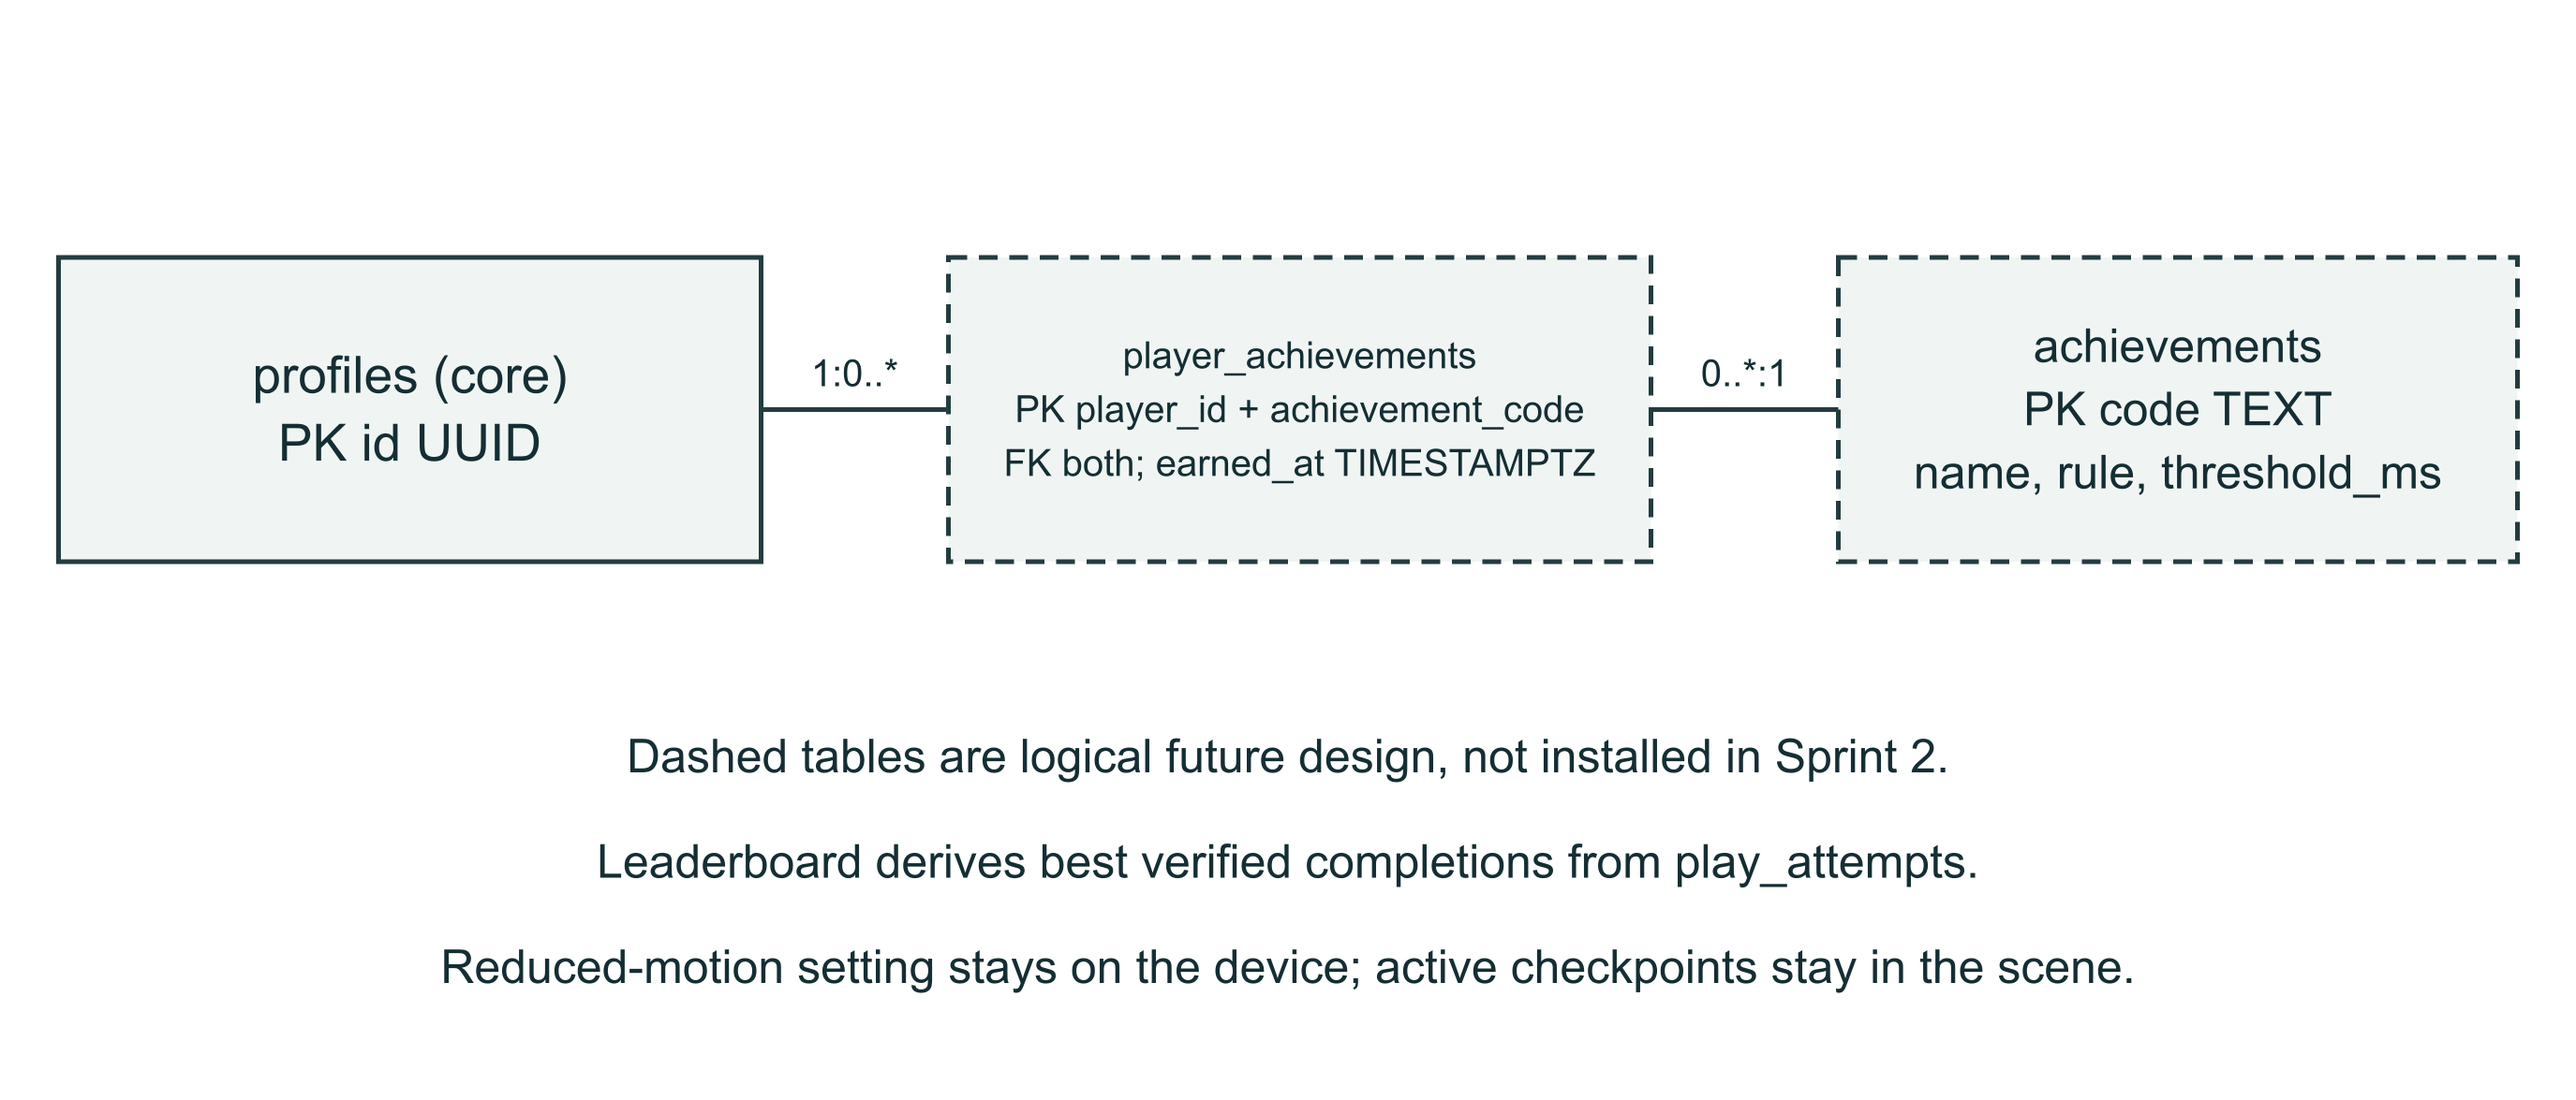
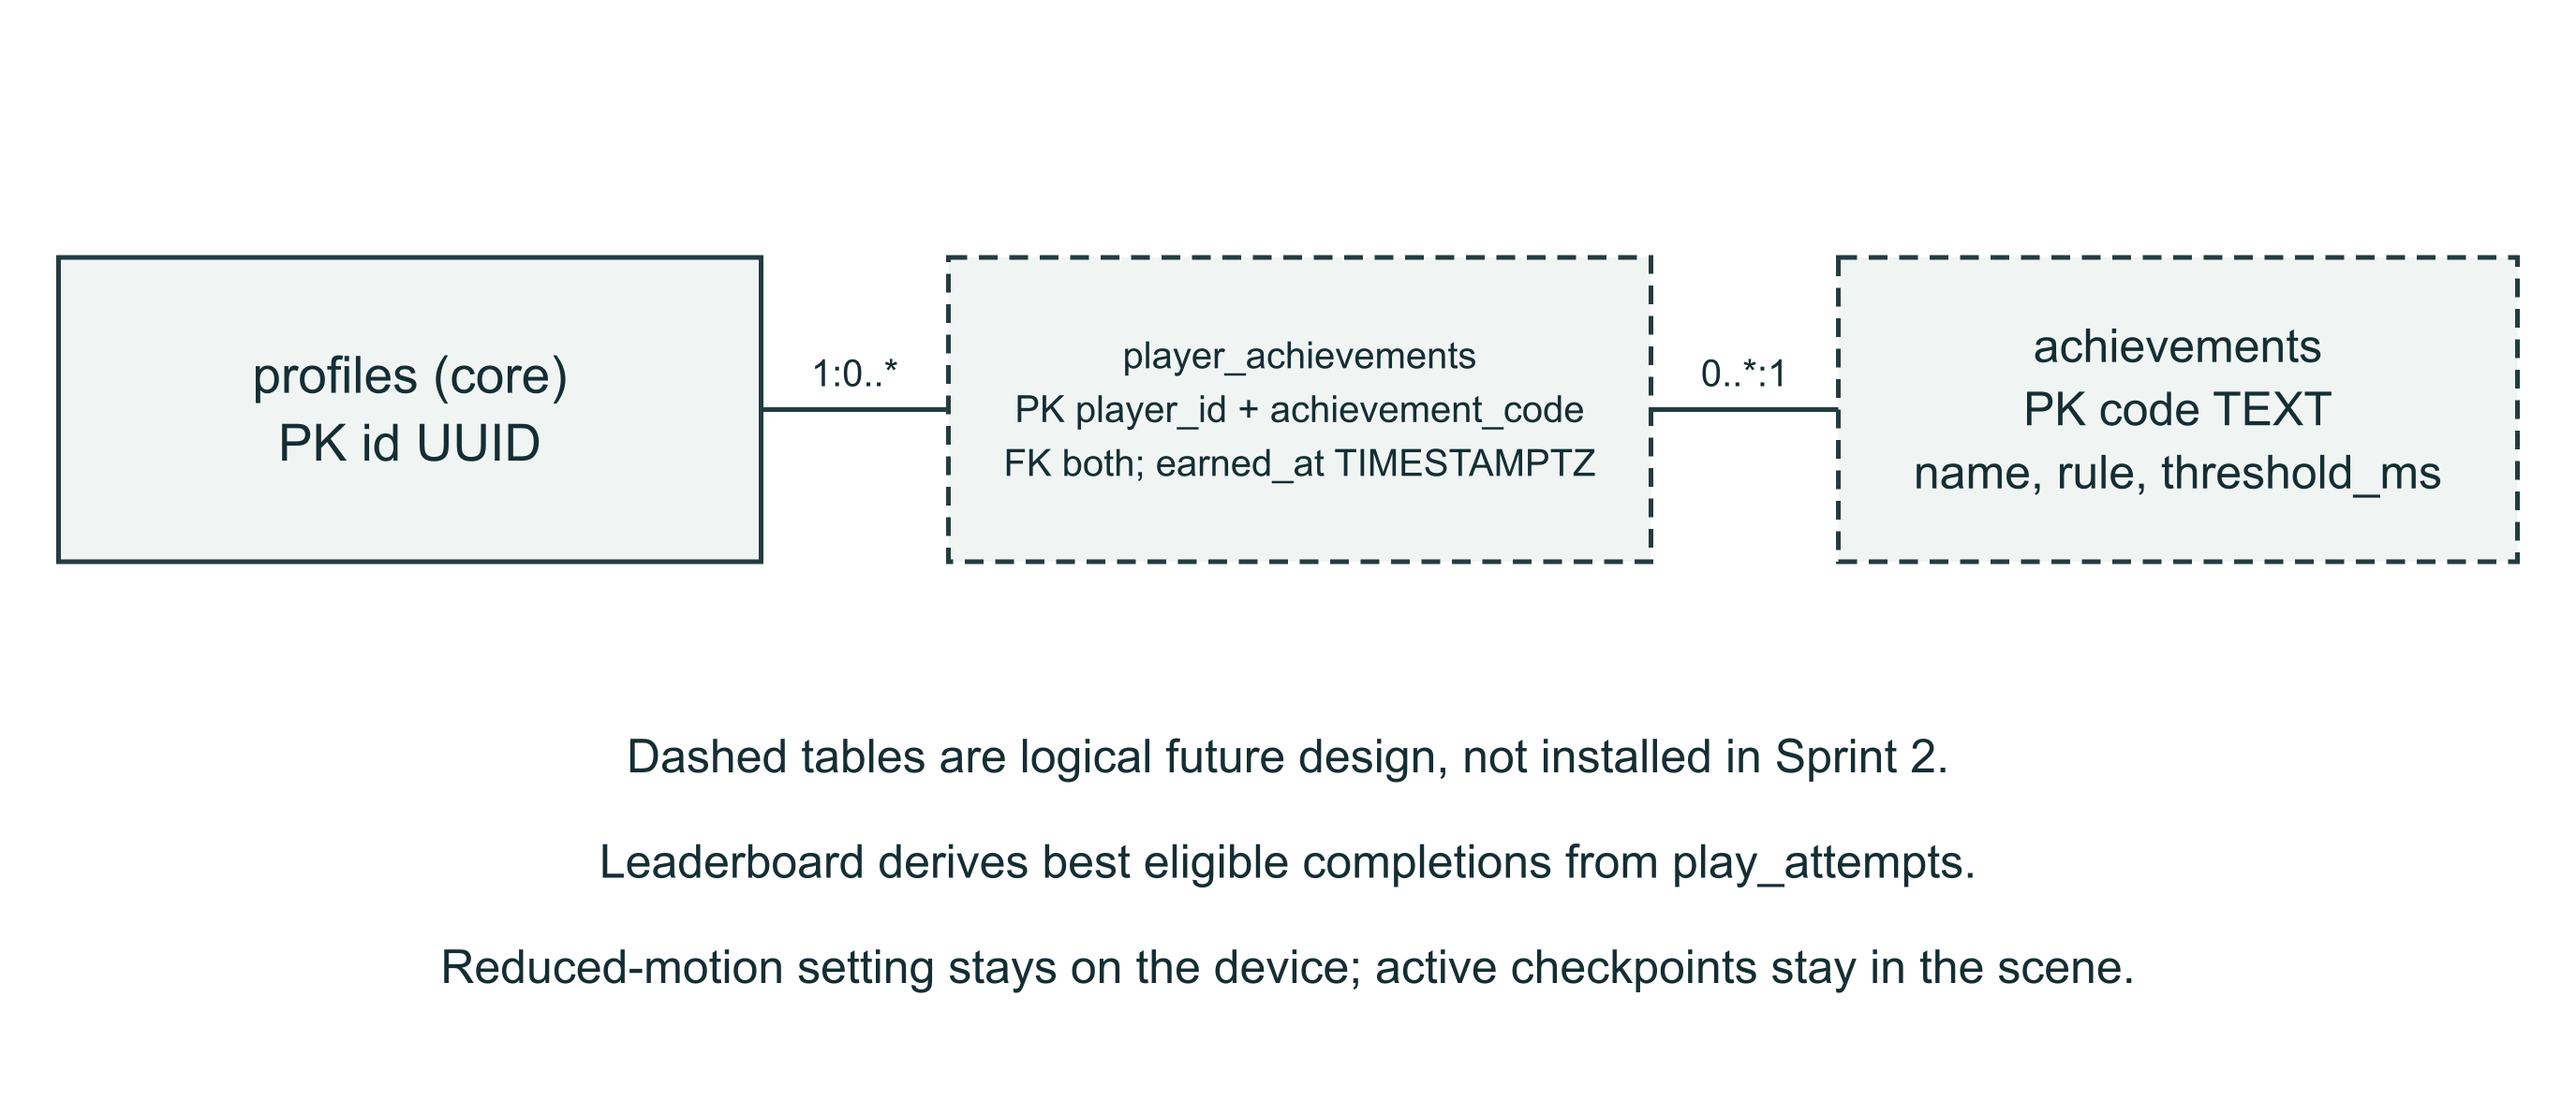
Record hosted account verification and clarify future leaderboard scope

Changed region(s): [[0.2164, 0.766, 0.7727, 0.7966]]

diff --git a/scripts/diagrams.py b/scripts/diagrams.py
@@ -70,7 +70,7 @@ d.box(30,460,460,230,['«interface» Level / Layout','id, title, description, di
 d=Diagram(1120,850)
 for x,y,w,h,lines in [(380,25,360,90,['auth.users (managed)','PK id UUID']), (380,205,360,120,['profiles','PK / FK id → auth.users','display_name TEXT']), (380,465,360,130,['levels','PK id UUID; FK creator_id','layout JSONB, published BOOL']), (20,205,300,165,['play_attempts','PK id; FK user_id, level_id','started_at, completed_at','elapsed_ms, deaths']), (800,205,300,120,['ratings','PK user_id + level_id','FK both; score 1..5']), (800,465,300,130,['favorites','PK user_id + level_id','FK both'])]:d.box(x,y,w,h,lines)
 d.line(560,115,560,205,'1 : 1');d.line(560,325,560,465,'0..1 : 0..*');d.line(380,265,320,265,'1 : 0..*');d.path('M170 370 L170 530 L380 530',False);d.text(275,510,'0..* : 1',16);d.line(740,265,800,265,'1 : 0..*');d.path('M950 325 L950 415 L650 415 L650 465',False);d.text(875,400,'0..* : 1',16);d.line(740,530,800,530);d.text(770,615,'1 : 0..*',16);d.path('M740 295 L770 295 L770 565 L800 565',False);d.text(910,635,'Each favorite has one player and one level.',18);d.text(560,775,'Core schema implemented in SQL; cloud execution status recorded separately.',18);d.text(560,810,'User/level relationship records are normalized; bounded geometry uses JSONB.',18);d.save('database-core')
-d=Diagram(1100,470);d.box(25,110,300,130,['profiles (core)','PK id UUID']);d.box(405,110,300,130,['player_achievements','PK player_id + achievement_code','FK both; earned_at TIMESTAMPTZ'],dash=True);d.box(785,110,290,130,['achievements','PK code TEXT','name, rule, threshold_ms'],dash=True);d.line(325,175,405,175,'1 : 0..*');d.line(705,175,785,175,'0..* : 1');d.text(550,330,'Dashed tables are logical future design, not installed in Sprint 2.',20);d.text(550,375,'Leaderboard derives best verified completions from play_attempts.',20);d.text(550,420,'Reduced-motion setting stays on the device; active checkpoints stay in the scene.',20);d.save('database-future')
+d=Diagram(1100,470);d.box(25,110,300,130,['profiles (core)','PK id UUID']);d.box(405,110,300,130,['player_achievements','PK player_id + achievement_code','FK both; earned_at TIMESTAMPTZ'],dash=True);d.box(785,110,290,130,['achievements','PK code TEXT','name, rule, threshold_ms'],dash=True);d.line(325,175,405,175,'1 : 0..*');d.line(705,175,785,175,'0..* : 1');d.text(550,330,'Dashed tables are logical future design, not installed in Sprint 2.',20);d.text(550,375,'Leaderboard derives best eligible completions from play_attempts.',20);d.text(550,420,'Reduced-motion setting stays on the device; active checkpoints stay in the scene.',20);d.save('database-future')
 
 
 d=Diagram(1080,1100)

diff --git a/scripts/specifications.py b/scripts/specifications.py
@@ -93,9 +93,9 @@ add(9,'Earn and view achievements',['Logged-in player'],['Backend evaluates a sa
 'Player identity; level/completion/save event; active elapsed milliseconds.',[
 'The first three achievement codes shall be first_completion, first_created_level and first_flight_under_30s.','The timed goal shall require elapsed_ms < 30000 for First Flight; deaths retain time and pauses exclude inactive time.','Player-achievement pairs shall be unique; backend rules shall determine awards from saved events.','Awards shall persist to the account and not grant guest preview persistence.'],
 'Persistent awards and progress list, or pending error state.', 'Planned logical model',['play_attempts','levels','achievements','player_achievements'])
-add(10,'View leaderboard',['Player'],['Player opens the leaderboard for a course.','Backend computes the best saved verified completion per account for the selected level.','Application sorts ascending active elapsed milliseconds and displays rank, display name and best time.','Player can change the selected course.'],
+add(10,'View leaderboard',['Player'],['Player opens the leaderboard for a course.','Backend computes the best saved eligible completion per account for the selected level.','Application sorts ascending active elapsed milliseconds and displays rank, display name and best time.','Player can change the selected course.'],
 'With no completion records, display an empty leaderboard. Ties share rank; stable ordering uses account UUID after elapsed time.',
-'Network errors display Retry. Unsaved, unverified or incomplete attempts are excluded. No email or credential data is exposed.',
+'Network errors display Retry. Unsaved, ineligible or incomplete attempts are excluded. No email or credential data is exposed.',
 'Course exists; trusted completion recording and a bounded public leaderboard endpoint are implemented.',
 'Leaderboard reflects persisted eligible results or a clear empty/error state.',
 'Level UUID; optional bounded result limit (top 50).',[

diff --git a/docs/VERIFICATION.md b/docs/VERIFICATION.md
@@ -18,7 +18,7 @@ All **13 live integration checks passed** using two user-supplied dedicated acco
 
 ## Hosted browser
 
-https://drat-git.github.io/skystride-adventures/ loads successfully. Browse courses returns one actual published course; Play course launches its validated layout. Main menu, sign-in, registration, course list and game screens captured with actual navigation. Site URL and exact hosted/local authentication redirects were saved. Invalid login returns the real provider error without claiming a session. Supabase's default email confirmation remains enabled. GitHub repository and public board are real; task statuses reflect observed work. Team assignees remain deferred.
+https://drat-git.github.io/skystride-adventures/ loads successfully. Browse courses returns one actual published course; Play course launches its validated layout. Main menu, sign-in, registration, course list and game screens captured with actual navigation. Site URL and exact hosted/local authentication redirects were saved. Invalid login returns the real provider error without claiming a session. Supabase's default email confirmation remains enabled. GitHub repository and public board are real; task statuses reflect observed work. Team assignees remain deferred. The final deployment (commit 854a24e) passed tests/build/deploy, and its existing-account login, saved profile, refresh restoration and logout were verified in a fresh hosted browser tab.
 
 ## Pending before submission
 
